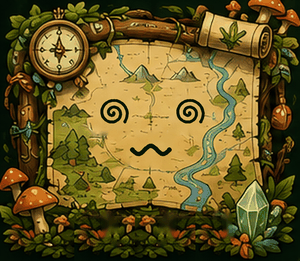
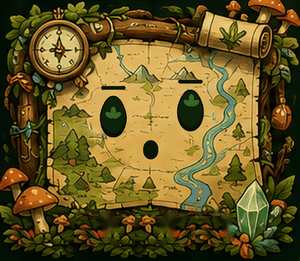
Herbie: 'I'm falling' tilt, jittering eyes, rocking spin, split scan
- tilt level 2 is now the old level 3 (oh no, 24 deg); new level 3 is an
  'I'm falling' face at 40 deg (also added as the 'falling' expression
  and a 'dropped' group)
- shaking and bouncing keep one face and move the eyes to different
  spots per frame
- spinning gets frames 4-5 (frames 2-3 leaning the other way) and
  rocks 1-2-3-2-1-4-5-4; scanning gets split-reticle frames 4-5 and
  sweeps 1-4-2-5-3
- frame order lives in manifest motion_sequences and is shared by the
  Whisplay dashboard, the web app and Face Lab
- high AF eyes a darker pink

diff --git a/src/main.jsx b/src/main.jsx
@@ -131,7 +131,7 @@ const herbieExpressions = [
   'sleepy','blushing','laughing','cheeky','focused','wow','love','grateful',
   'party-mode','high-af','chillin','meditating','bored','melting','sweating','overwhelmed',
   'greetings','wink','thumbs-up','thumbs-down','facepalm','oh-no','face-with-tears','party-hard',
-  'gps-searching','gps-locked','off-route','thirsty','cold','storm-alert','summit','charging','middle-finger'
+  'gps-searching','gps-locked','off-route','thirsty','cold','storm-alert','summit','charging','middle-finger','falling'
 ];
 const herbieExpressionLabels = {
   auto:'Auto trail mood', neutral:'Neutral', happy:'Happy', excited:'Excited', curious:'Curious', thinking:'Thinking', 'side-eye':'Side eye', suspicious:'Suspicious', confused:'Confused',
@@ -139,11 +139,12 @@ const herbieExpressionLabels = {
   sleepy:'Sleepy', blushing:'Blushing', laughing:'Laughing', cheeky:'Cheeky', focused:'Focused', wow:'Wow', love:'Love', grateful:'Grateful',
   'party-mode':'Party mode', 'high-af':'High AF', chillin:"Chillin'", meditating:'Meditating', bored:'Bored', melting:'Melting', sweating:'Sweating', overwhelmed:'Overwhelmed',
   greetings:'Greetings', wink:'Wink', 'thumbs-up':'Thumbs up', 'thumbs-down':'Thumbs down', facepalm:'Facepalm', 'oh-no':'Oh no!', 'face-with-tears':'Face with tears', 'party-hard':'Party hard',
-  'gps-searching':'GPS searching', 'gps-locked':'GPS locked', 'off-route':'Off route', thirsty:'Thirsty', cold:'Cold', 'storm-alert':'Storm alert', summit:'Summit', charging:'Charging', 'middle-finger':'Middle finger'
+  'gps-searching':'GPS searching', 'gps-locked':'GPS locked', 'off-route':'Off route', thirsty:'Thirsty', cold:'Cold', 'storm-alert':'Storm alert', summit:'Summit', charging:'Charging', 'middle-finger':'Middle finger', falling:"I'm falling"
 };
-const herbieMotionAssets = ['tilted-left','tilted-left-2','tilted-left-3','tilted-right','tilted-right-2','tilted-right-3','shaking','shaking-2','shaking-3','bouncing','bouncing-2','bouncing-3','spinning','spinning-2','spinning-3','happy-hover','happy-hover-2','happy-hover-3','scanning','scanning-2','scanning-3','low-battery'];
+const herbieMotionAssets = ['tilted-left','tilted-left-2','tilted-left-3','tilted-right','tilted-right-2','tilted-right-3','shaking','shaking-2','shaking-3','bouncing','bouncing-2','bouncing-3','spinning','spinning-2','spinning-3','spinning-4','spinning-5','happy-hover','happy-hover-2','happy-hover-3','scanning','scanning-2','scanning-3','scanning-4','scanning-5','low-battery'];
 // Motions with 3 frames loop at this many ms per frame; tilt picks a level from the Sense HAT angle (same as the Whisplay).
 const herbieMotionCycleMs = { spinning:400, shaking:500, scanning:600, bouncing:800, 'happy-hover':1200 };
+const herbieMotionSequences = { spinning:['','-2','-3','-2','','-4','-5','-4'], scanning:['','-4','-2','-5','-3'], shaking:['','-2','-3'], bouncing:['','-2','-3','-2'], 'happy-hover':['','-2','-3'] };
 const HERBIE_TILT_LEVELS = [8, 18, 30];
 const herbieTiltSuffix = (deg) => deg >= HERBIE_TILT_LEVELS[2] ? '-3' : deg >= HERBIE_TILT_LEVELS[1] ? '-2' : '';
 const herbieTurnaroundAssets = ['top','bottom','left','back','right'];
@@ -313,7 +314,8 @@ function HerbieCompanionPanel({ settings = {}, setSettings, progress = 0.34, tic
   const blinkNow = herbie.blinking && imageKind === 'expressions' && herbieBlinkableFaces.includes(baseName);
   const gaze = herbieGazeNow();
   const cycleMs = imageKind === 'motions' ? herbieMotionCycleMs[baseName] : 0;
-  const motionName = cycleMs ? [baseName, `${baseName}-2`, `${baseName}-3`][Math.floor(Date.now() / cycleMs) % 3] : baseName;
+  const motionSeq = herbieMotionSequences[baseName] || [''];
+  const motionName = cycleMs ? `${baseName}${motionSeq[Math.floor(Date.now() / cycleMs) % motionSeq.length]}` : baseName;
   const imageName = blinkNow ? 'meditating' : (imageKind === 'expressions' && gaze !== 'center' ? `${baseName}-${gaze}` : motionName);
   return <div className={`herbie-companion motion-${herbie.motion} ${herbie.blinking ? 'is-blinking' : ''} ${herbie.tilted ? 'is-tilted' : ''}`}><div className="herbie-stage"><img src={herbieAsset(imageKind, imageName)} alt={`Herbie Map ${imageName} ${imageKind === 'motions' ? 'motion' : imageKind === 'turnarounds' ? 'turnaround' : 'expression'}`} loading="lazy" /></div><div className="herbie-copy"><div className="section-head compact"><div><h3>Herbie Map companion</h3><p className="muted">Your trail buddy. Herbie's face follows the Whisplay screen and reacts to Sense HAT tilt and bumps.</p></div><Pill>{herbieExpressionLabels[herbie.expression] || herbie.expression}</Pill><Pill tone={herbie.buddyMood === 'excited' ? 'online' : herbie.buddyMood === 'sleepy' ? 'warn' : 'default'}>Buddy Mood: {herbie.buddyMood}</Pill></div><label className="field-line"><span>Herbie mood</span><select value={manual} onChange={e=>setHerbie(e.target.value)}>{herbieExpressions.map(x=><option key={x} value={x}>{herbieExpressionLabels[x] || x}</option>)}</select></label><div className="tag-row"><Pill>{herbie.reason}</Pill></div>{herbie.whisplayOk && <div className="herbie-whisplay-mirror"><strong>Whisplay HAT live display</strong><span>{herbie.whisplayForeground || 'foreground unknown'} · {herbie.whisplayScreen?.width || 240}×{herbie.whisplayScreen?.height || 280} {herbie.whisplayScreen?.pixel_format || 'RGB565'}</span></div>}</div></div>;
 }

diff --git a/tools/herbie/build_faces.py b/tools/herbie/build_faces.py
@@ -45,8 +45,8 @@ HAND_LIGHT = (72, 90, 17)
 HAND_SHADE = (34, 46, 6)
 HAND_VEIN = (26, 36, 4)
 SLEEVE = (88, 77, 18)
-HIGH_EYE = (242, 150, 178)  # high AF: pink eyes, green pupils
-HIGH_EYE_EDGE = (150, 64, 96)
+HIGH_EYE = (212, 108, 146)  # high AF: pink eyes, green pupils
+HIGH_EYE_EDGE = (118, 40, 72)
 LOCK_EYE = (16, 66, 22)     # GPS locked: radar-green reticle eyes
 LOCK_EYE_EDGE = (4, 20, 6)
 LOCK_PUPIL = (150, 250, 116)
@@ -473,6 +473,12 @@ def sunglasses(c):
             c.paste(Image.new('RGBA', c.size, (235, 245, 250, 255)), (0, 0), streak)
 
 
+def fall_lines(c):
+    """Speed lines above Herbie: he is dropping."""
+    for x, y0, y1 in ((40, 20, 30), (50, 16, 24), (97, 16, 25), (107, 20, 31), (74, 12, 20)):
+        paint(c, stroke_mask([(x, y0), (x, y1)], 1.3), (238, 240, 226), outline=INK, outline_px=4)
+
+
 def charge_spark(c, x=108, y=44):
     pts = [(x + 1.5, y - 6), (x - 2.5, y + 0.5), (x + 0.5, y + 0.5), (x - 1.5, y + 6), (x + 3, y - 1), (x, y - 1)]
     paint(c, poly_mask(pts), SPROUT, outline=INK, outline_px=5)
@@ -714,6 +720,7 @@ FACES = {
     # New faces for features added since the original set.
     'gps-searching': lambda c: (eyes(c, look=(-2, -3)), brow(c, EYE_L, 2, lift=1), mouth_o(c, 2.2, 2.4)),
     'gps-locked':   lambda c: (eye_reticle(c, EYE_L), eye_reticle(c, EYE_R), mouth_smile(c, 22, 5)),
+    'falling':      lambda c: (eyes(c, scale=1.55, look=(0, -3.5)), brow(c, EYE_L, 5, lift=8), brow(c, EYE_R, 5, lift=8, side='R'), mouth_wail(c, 18, 13), sweat(c, 110, 40), sweat(c, 36, 42), fall_lines(c)),
     'middle-finger': lambda c: (eye_open(c, EYE_L, lid='half', look=(0, 1)), eye_open(c, EYE_R, lid='angry', lid_side='R', look=(0, 1)), mouth_smirk(c), leaf_hand(c, 116, 66, angle=-4, scale=0.78, pose='middle')),
     'off-route':    lambda c: (eyes(c, look=(3, 1), lid='sad', lid_side='R'), brow(c, EYE_R, 3, side='R'), mouth_wavy(c, 16)),
     'thirsty':      lambda c: (eyes(c, lid='half', look=(0, 2)), mouth_tongue(c, 14), sweat(c, 108, 48)),
@@ -742,7 +749,7 @@ FACES = {
 LABELS = {'high-af': 'high AF', 'oh-no': 'oh no!', 'face-with-tears': 'face with tears', 'gps-searching': 'GPS searching',
           'gps-locked': 'GPS locked', 'off-route': 'off route', 'storm-alert': 'storm alert', 'party-mode': 'party mode',
           'party-hard': 'party hard', 'side-eye': 'side eye', 'thumbs-up': 'thumbs up', 'thumbs-down': 'thumbs down',
-          'middle-finger': 'middle finger'}
+          'middle-finger': 'middle finger', 'falling': "I'm falling"}
 # Stronger versions: <name>-2 / <name>-3 escalate the same expression.
 LEVELS = {base: [base, f'{base}-2', f'{base}-3'] for base in ('storm-alert', 'face-with-tears', 'worried', 'angry', 'sad', 'laughing', 'surprised', 'cold')}
 LABELS.update({f'{b}-{n}': f"{LABELS.get(b, b.replace('-', ' '))} {'(strong)' if n == 2 else '(extreme)'}" for b in LEVELS for n in (2, 3)})
@@ -772,38 +779,94 @@ GROUPS = {
     'furious':       ['angry', 'angry-2', 'angry-3'],
     'summit':        ['summit', 'party-hard', 'excited', 'love', 'laughing', 'laughing-2'],
     'jolt':          ['surprised', 'oh-no', 'wow'],
+    'dropped':       ['falling', 'oh-no', 'surprised-3'],
     'oops':          ['facepalm', 'thumbs-down', 'annoyed', 'face-with-tears'],
     'party':         ['party-mode', 'party-hard', 'laughing', 'laughing-3', 'cheeky'],
     'four-twenty':   ['high-af', 'chillin', 'laughing'],
     'rude':          ['middle-finger', 'annoyed', 'side-eye'],
 }
 
-# (base face, rotation). Tilt levels show at Sense HAT tilt >= 8 / 18 / 30 degrees.
+def _shake(dl, dr, look_l, look_r):
+    def draw(c):
+        l, r = (EYE_L[0] + dl[0], EYE_L[1] + dl[1]), (EYE_R[0] + dr[0], EYE_R[1] + dr[1])
+        eye_open(c, l, scale=1.2, look=look_l)
+        eye_open(c, r, scale=1.2, look=look_r)
+        brow(c, l, 0, lift=3)
+        brow(c, r, 0, lift=3, side='R')
+        mouth_o(c, 3.4, 4.4)
+    return draw
+
+
+def _bounce(dy, look_y):
+    def draw(c):
+        eye_open(c, (EYE_L[0], EYE_L[1] + dy), scale=1.15, look=(0, look_y))
+        eye_open(c, (EYE_R[0], EYE_R[1] + dy), scale=1.15, look=(0, look_y))
+        mouth_grin(c)
+    return draw
+
+
+def _split_scan(reticle_side):
+    def draw(c):
+        if reticle_side == 'R':
+            eye_open(c, EYE_L)
+            eye_reticle(c, EYE_R)
+        else:
+            eye_reticle(c, EYE_L)
+            eye_open(c, EYE_R)
+        mouth_flat(c, 12)
+    return draw
+
+
+# Frames that only exist as motions (not listed as expressions).
+MOTION_FACES = {
+    'shake-1': _shake((-1.8, -1.2), (1.6, 1.2), (-1.5, 0), (1.5, 1)),
+    'shake-2': _shake((1.6, 0.8), (-1.2, -1.6), (1.5, -1), (-1.5, 0)),
+    'shake-3': _shake((0.2, 1.8), (0.8, -1.2), (0, 1.5), (0.5, -1.5)),
+    'bounce-1': _bounce(-2.6, -2),
+    'bounce-2': _bounce(0, 0),
+    'bounce-3': _bounce(2.6, 2),
+    'scan-reticle-right': _split_scan('R'),
+    'scan-reticle-left': _split_scan('L'),
+}
+
+# (base face or motion frame, rotation / radar sweep). Tilt levels show at Sense HAT tilt >= 8 / 18 / 30 degrees.
 MOTIONS = {
     'tilted-left':    ('curious', 6),
-    'tilted-left-2':  ('surprised', 14),
-    'tilted-left-3':  ('oh-no', 24),
+    'tilted-left-2':  ('oh-no', 24),
+    'tilted-left-3':  ('falling', 40),
     'tilted-right':   ('curious', -6),
-    'tilted-right-2': ('surprised', -14),
-    'tilted-right-3': ('oh-no', -24),
-    'shaking':        ('surprised', None),
-    'shaking-2':      ('oh-no', None),
-    'shaking-3':      ('overwhelmed', None),
-    'bouncing':       ('excited', None),
-    'bouncing-2':     ('laughing', None),
-    'bouncing-3':     ('party-mode', None),
+    'tilted-right-2': ('oh-no', -24),
+    'tilted-right-3': ('falling', -40),
+    'shaking':        ('shake-1', None),
+    'shaking-2':      ('shake-2', None),
+    'shaking-3':      ('shake-3', None),
+    'bouncing':       ('bounce-1', None),
+    'bouncing-2':     ('bounce-2', None),
+    'bouncing-3':     ('bounce-3', None),
     'happy-hover':    ('happy', None),
     'happy-hover-2':  ('grateful', None),
     'happy-hover-3':  ('love', None),
     'spinning':       ('overwhelmed', None),
     'spinning-2':     ('overwhelmed', 15),
     'spinning-3':     ('overwhelmed', 30),
+    'spinning-4':     ('overwhelmed', -15),
+    'spinning-5':     ('overwhelmed', -30),
     'scanning':       ('neutral', -30),
     'scanning-2':     ('focused', 90),
     'scanning-3':     ('gps-searching', 210),
+    'scanning-4':     ('scan-reticle-right', 30),
+    'scanning-5':     ('scan-reticle-left', 150),
     'low-battery':    ('tired', None),
 }
 TILT_THRESHOLDS = (8, 18, 30)
+# Frame order for looping motions ('' = the base frame). Spinning rocks both ways; scanning sweeps round.
+MOTION_SEQUENCES = {
+    'spinning':    ['', '-2', '-3', '-2', '', '-4', '-5', '-4'],
+    'scanning':    ['', '-4', '-2', '-5', '-3'],
+    'shaking':     ['', '-2', '-3'],
+    'bouncing':    ['', '-2', '-3', '-2'],
+    'happy-hover': ['', '-2', '-3'],
+}
 
 
 def render_face(template, name, draw=None):
@@ -871,13 +934,15 @@ def main(preview=False):
     set_gaze('center')
     faces = gazes['center']
     motions = {}
+    frames = {k: render_face(template, k, draw=f) for k, f in MOTION_FACES.items()}
+    frames.update(faces)
     for name, (base, angle) in MOTIONS.items():
         if name.startswith('scanning'):
-            motions[name] = radar_scan(faces[base], sweep_deg=angle)
+            motions[name] = radar_scan(frames[base], sweep_deg=angle)
         elif name == 'low-battery':
             motions[name] = render_face(template, name, draw=battery_panel)
         else:
-            motions[name] = on_background(faces[base], angle=angle, ghost=name.startswith('shaking'))
+            motions[name] = on_background(frames[base], angle=angle, ghost=name.startswith('shaking'))
     turns = {n: center_turnaround(n) for n in TURNAROUND_BOXES}
 
     if '--dry' not in sys.argv:
@@ -899,6 +964,7 @@ def main(preview=False):
         manifest['groups'] = GROUPS
         manifest['levels'] = LEVELS
         manifest['tilt_thresholds'] = list(TILT_THRESHOLDS)
+        manifest['motion_sequences'] = MOTION_SEQUENCES
         manifest['motion_variants'] = {b: [m for m in MOTIONS if m == b or m.startswith(b + '-') and m[len(b) + 1:].isdigit()] for b in MOTIONS if not b[-1].isdigit()}
         (SRC / 'manifest.json').write_text(json.dumps(manifest, indent=2) + '\n')
 

diff --git a/local-pi-imager/whisplay/mappi3_whisplay_common.py b/local-pi-imager/whisplay/mappi3_whisplay_common.py
@@ -87,7 +87,7 @@ HERBIE_EXPRESSION_ORDER = (
     'overwhelmed','high-af','party-mode','greetings','wink','thumbs-up','thumbs-down','facepalm',
     'oh-no','face-with-tears','party-hard',
     'gps-searching','gps-locked','off-route','thirsty','cold','storm-alert','summit','charging',
-    'middle-finger'
+    'middle-finger','falling'
 )
 HERBIE_MANUAL_ONLY = ('middle-finger',)   # never picked automatically
 HERBIE_EXPRESSIONS = set(HERBIE_EXPRESSION_ORDER)
@@ -113,6 +113,8 @@ HERBIE_GAZE_CYCLE = ('center', 'center', 'left', 'center', 'right')
 HERBIE_GAZE_BEAT_S = 3.0
 # Motions with 3 frames (<name>, <name>-2, <name>-3) play as a short loop at this many seconds per frame.
 HERBIE_MOTION_CYCLE_S = {'spinning': 0.4, 'shaking': 0.5, 'scanning': 0.6, 'bouncing': 0.8, 'happy-hover': 1.2}
+# Frame order per motion ('' = base frame): spinning rocks both ways, scanning sweeps round.
+HERBIE_MOTION_SEQUENCES = {'spinning': ('', '-2', '-3', '-2', '', '-4', '-5', '-4'), 'scanning': ('', '-4', '-2', '-5', '-3'), 'shaking': ('', '-2', '-3'), 'bouncing': ('', '-2', '-3', '-2'), 'happy-hover': ('', '-2', '-3')}
 # Tilt levels: tilted-<dir>, tilted-<dir>-2, tilted-<dir>-3 at these Sense HAT angles.
 HERBIE_TILT_LEVELS = (8.0, 18.0, 30.0)
 
@@ -129,8 +131,8 @@ def herbie_gaze_ref(ref, now_ts=None):
         beat = HERBIE_MOTION_CYCLE_S.get(base)
         if not beat:
             return raw
-        variants = [base] + [f'{base}-{n}' for n in (2, 3) if herbie_asset_path('motions', f'{base}-{n}')]
-        return 'motions/' + variants[int(t // beat) % len(variants)]
+        frames = [f'{base}{sfx}' for sfx in HERBIE_MOTION_SEQUENCES.get(base, ('',)) if herbie_asset_path('motions', f'{base}{sfx}')] or [base]
+        return 'motions/' + frames[int(t // beat) % len(frames)]
     if '/' in raw and not raw.startswith('expressions/'):
         return raw
     name = raw.split('/', 1)[-1]
